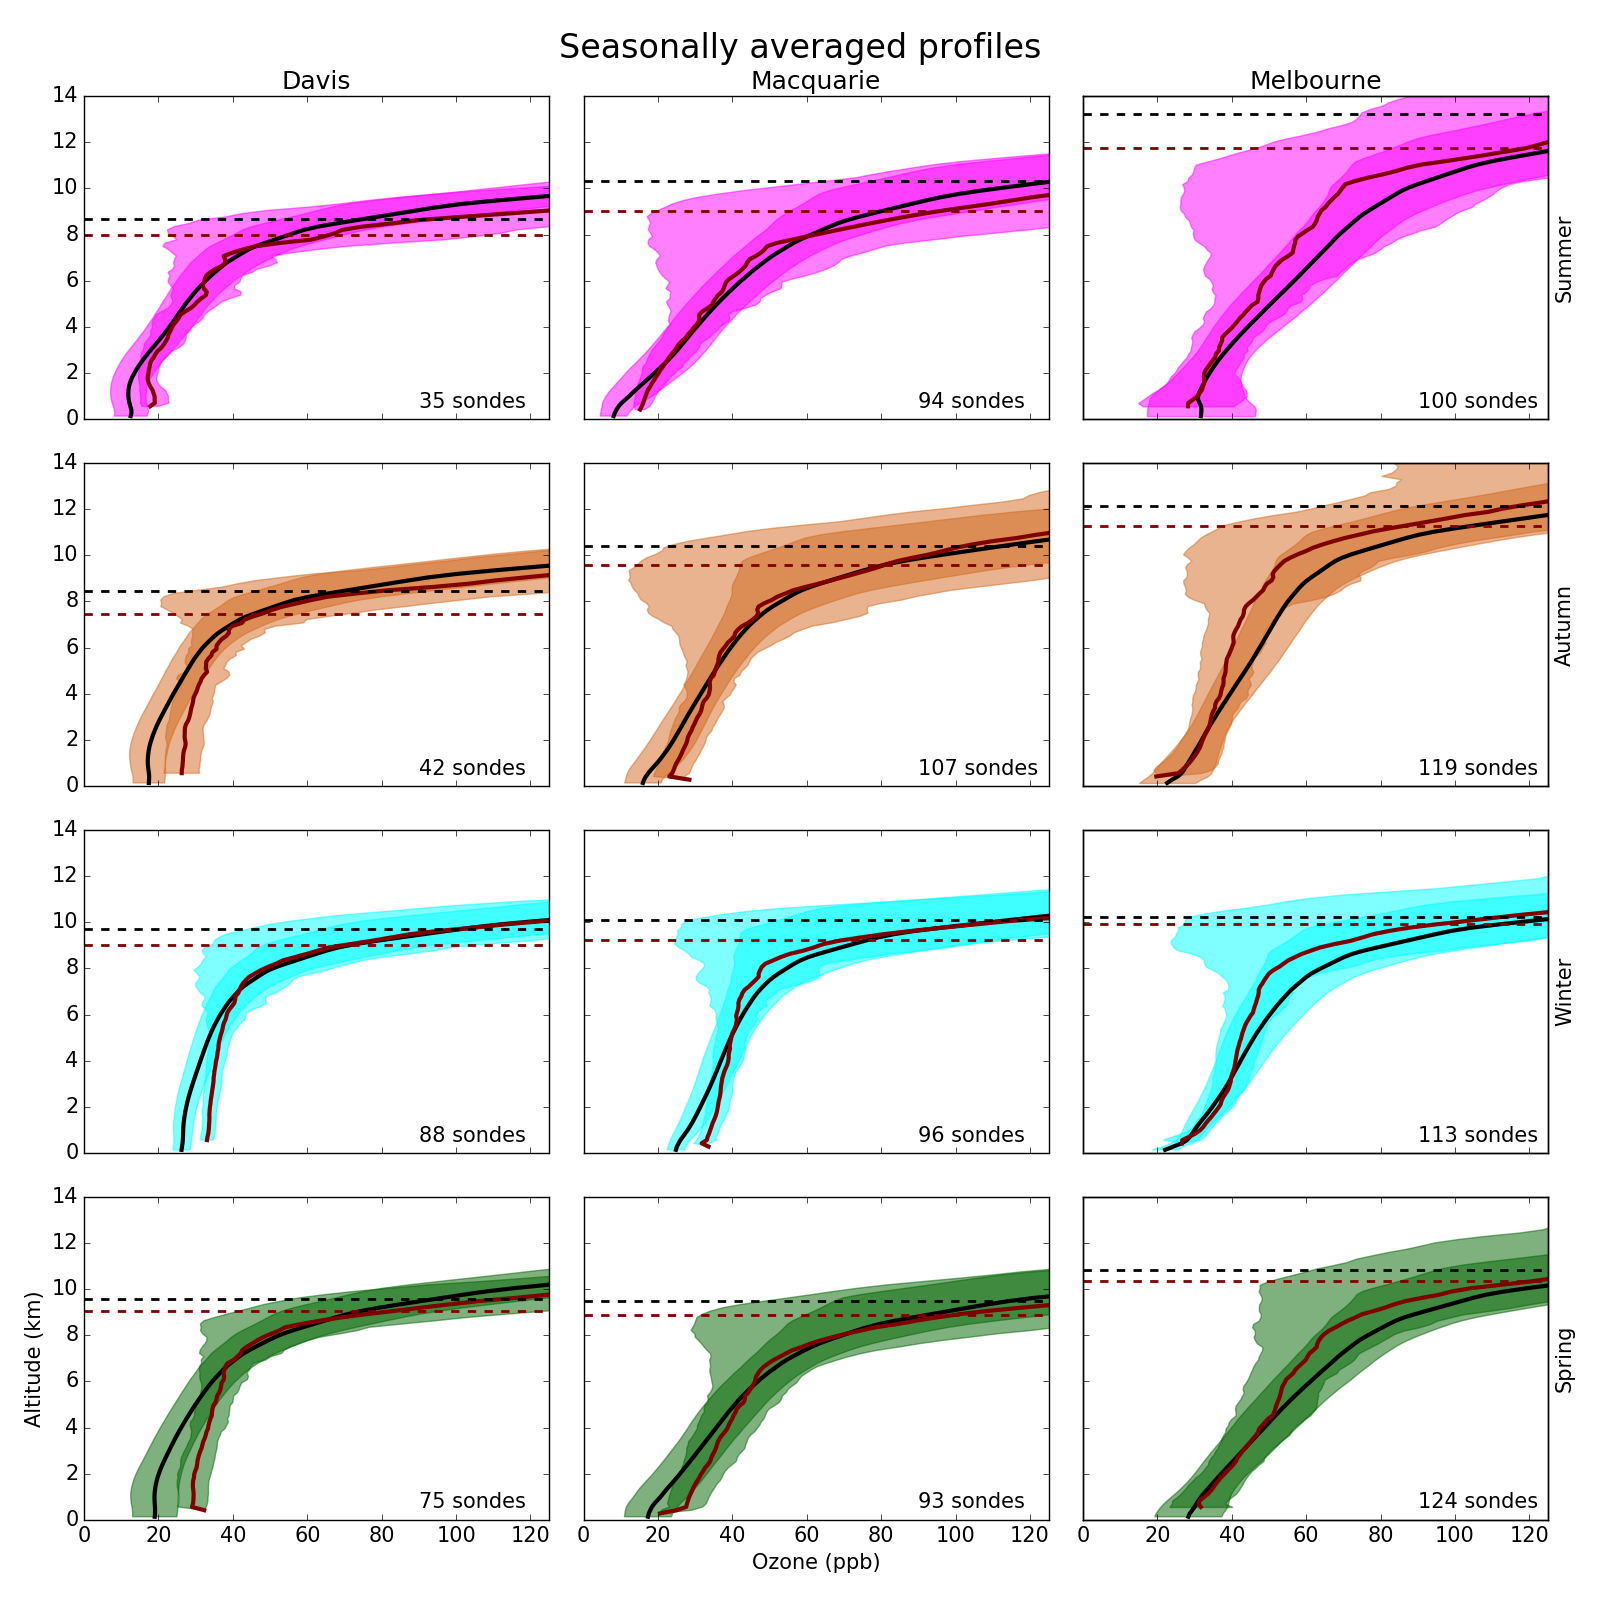
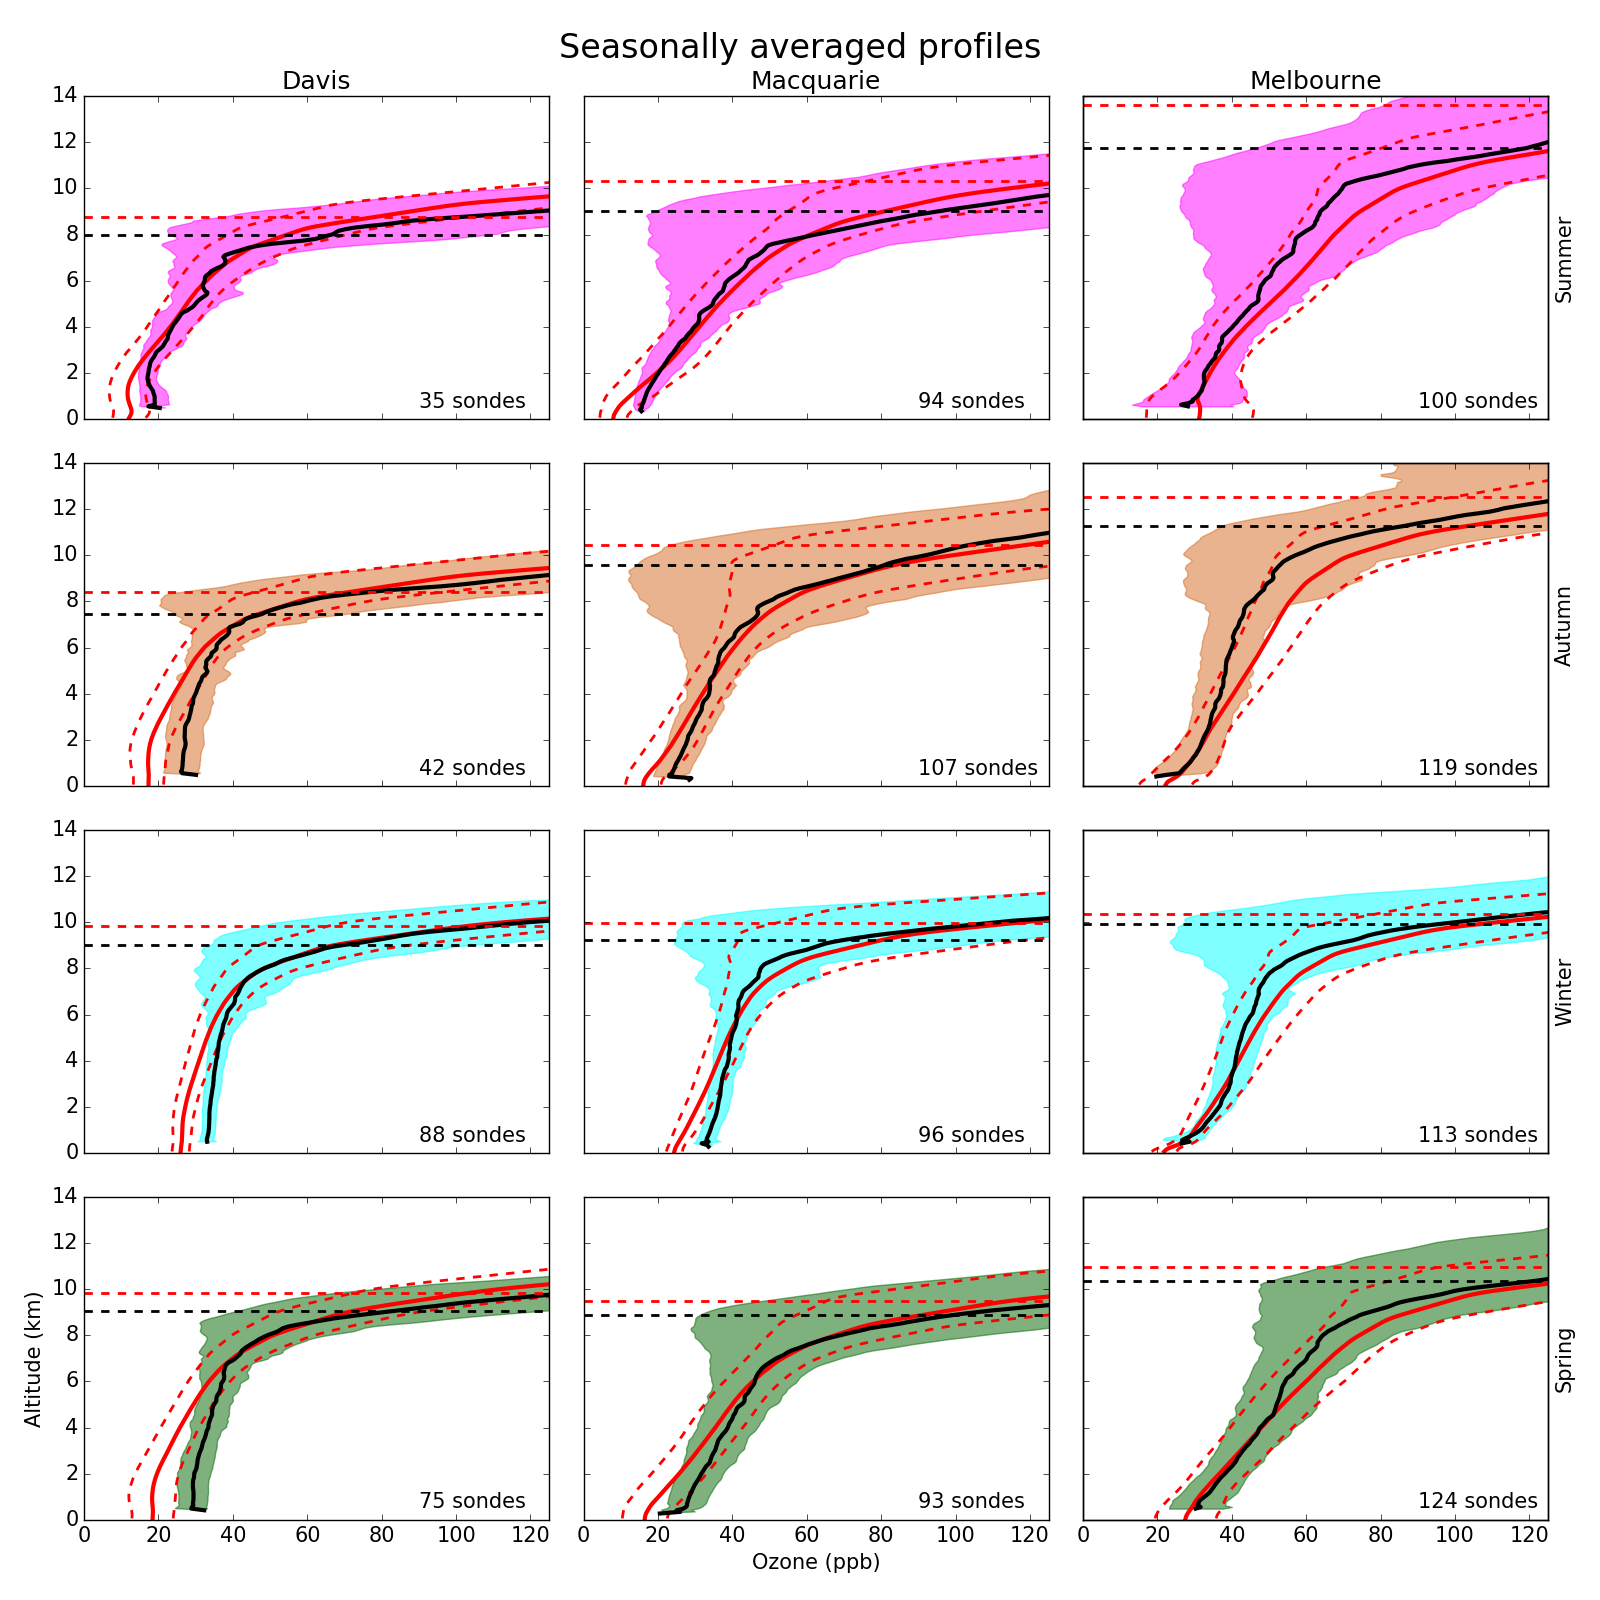
seasonal profile now differentiates model vs obs

diff --git a/examine_stations.py b/examine_stations.py
@@ -239,7 +239,6 @@ def seasonal_profiles(hour=0, degradesondes=False):
     seasonstr=['Summer','Autumn','Winter','Spring']
     seasonalcolours=seasonal_cmap.colors
     
-    
     # Set up plot axes
     f, axes = plt.subplots(4,3, sharex=True, sharey=True, figsize=(16,16))
     axes[3,1].set_xlabel('Ozone (ppb)')
@@ -266,14 +265,16 @@ def seasonal_profiles(hour=0, degradesondes=False):
         TP = site['TropopauseAltitude'] / 1000.0
         Z  = site['Altitudes']/1000.0 
         s_Z  = np.array(sonde.gph) / 1000.0 
-        Znew= np.linspace(0,14,100)
+        # Interpolate to grid up to 14km
+        Znewlen = 200
+        Znew= np.linspace(0,14,Znewlen)
         # need to vertically bin the O3 profiles,
         # interpolated at 100 points up to 14km
-        means=np.zeros([4,100])
-        stds =np.zeros([4,100])
+        means=np.zeros([4,Znewlen])
+        stds =np.zeros([4,Znewlen])
         TPm = np.zeros(4)
-        s_means=np.zeros([4,100])
-        s_stds =np.zeros([4,100])
+        s_means=np.zeros([4,Znewlen])
+        s_stds =np.zeros([4,Znewlen])
         s_TPm = np.zeros(4)
         s_counts=np.zeros(4)
         
@@ -297,8 +298,8 @@ def seasonal_profiles(hour=0, degradesondes=False):
             s_counts[season]=s_n
             
             # each profile needs to be interpolated up to 14km
-            profs=np.zeros([n,100])
-            s_profs=np.zeros([s_n,100])
+            profs=np.zeros([n,Znewlen])
+            s_profs=np.zeros([s_n,Znewlen])
             for i in range(n):
                 profs[i,:] = np.interp(Znew, Z[inds[i],:], O3[inds[i],:],left=np.NaN,right=np.NaN)
             for i in range(s_n):
@@ -322,16 +323,24 @@ def seasonal_profiles(hour=0, degradesondes=False):
             s_Xl=s_X-s_stds[i,:]
             s_Xr=s_X+s_stds[i,:]
             
-            # plot averaged profiles + std
+            ## plot averaged profiles + std from the model
+            #
             plt.plot(X, Znew , linewidth=3, color=col['GEOS'])
-            plt.fill_betweenx(Znew, Xl, Xr, alpha=0.5, color=seasonalcolours[i])
+            #plt.fill_betweenx(Znew, Xl, Xr, alpha=0.5, color=seasonalcolours[i])
+            plt.plot(Xl, Znew, linewidth=2, color=col['GEOS'], linestyle='--')
+            plt.plot(Xr, Znew, linewidth=2, color=col['GEOS'], linestyle='--')
+            
+            ## plot averaged profiles + std from the sondes
+            #
             plt.plot(s_X, Znew , linewidth=3, color=col['Sonde'])
             plt.fill_betweenx(Znew, s_Xl, s_Xr, alpha=0.5, color=seasonalcolours[i])
-            # plot tropopause
+            
+            # plot tropopauses
             Y=TPm[i]
             s_Y=s_TPm[i]
             plt.plot(xlim, [Y, Y], '--', linewidth=2, color=col['GEOS'])
             plt.plot(xlim, [s_Y, s_Y], '--', linewidth=2, color=col['Sonde'])
+            
             # add count text to upper corner
             plt.text(.72*xlim[1], .5, "%d sondes"%s_counts[i])
             if i == 0:
@@ -340,10 +349,9 @@ def seasonal_profiles(hour=0, degradesondes=False):
                 twinax=plt.twinx()
                 twinax.set_yticks([]) # turn off ticks
                 twinax.set_ylabel(seasonstr[i])
-                
-                
-        
-    # set title, and layout, then save figure
+    
+    ## set title, and layout, then save figure
+    #
     f.suptitle("Seasonally averaged profiles",fontsize=24)
     outfile='images/eventprofiles/seasonalprofiles.png'
     if hour is not None: outfile='images/eventprofiles/seasonalprofiles%02d.png'%hour
@@ -354,7 +362,6 @@ def seasonal_profiles(hour=0, degradesondes=False):
     plt.savefig(outfile)
     print("Image saved to %s"%outfile)
     plt.close(f)
-  
 
 def monthly_profiles(hour=0, degradesondes=False):
     '''
@@ -966,8 +973,8 @@ if __name__ == "__main__":
     print ("Running")
     #check_GC_output()
     #[event_profiles(s) for s in [0,1,2]]
-    time_series()
-    #seasonal_profiles(hour=0,degradesondes=False)
+    #time_series()
+    seasonal_profiles(hour=0,degradesondes=False)
     #summary_plots()
     #monthly_profiles(hour=0,degradesondes=True)
     #anomaly_correlation()
